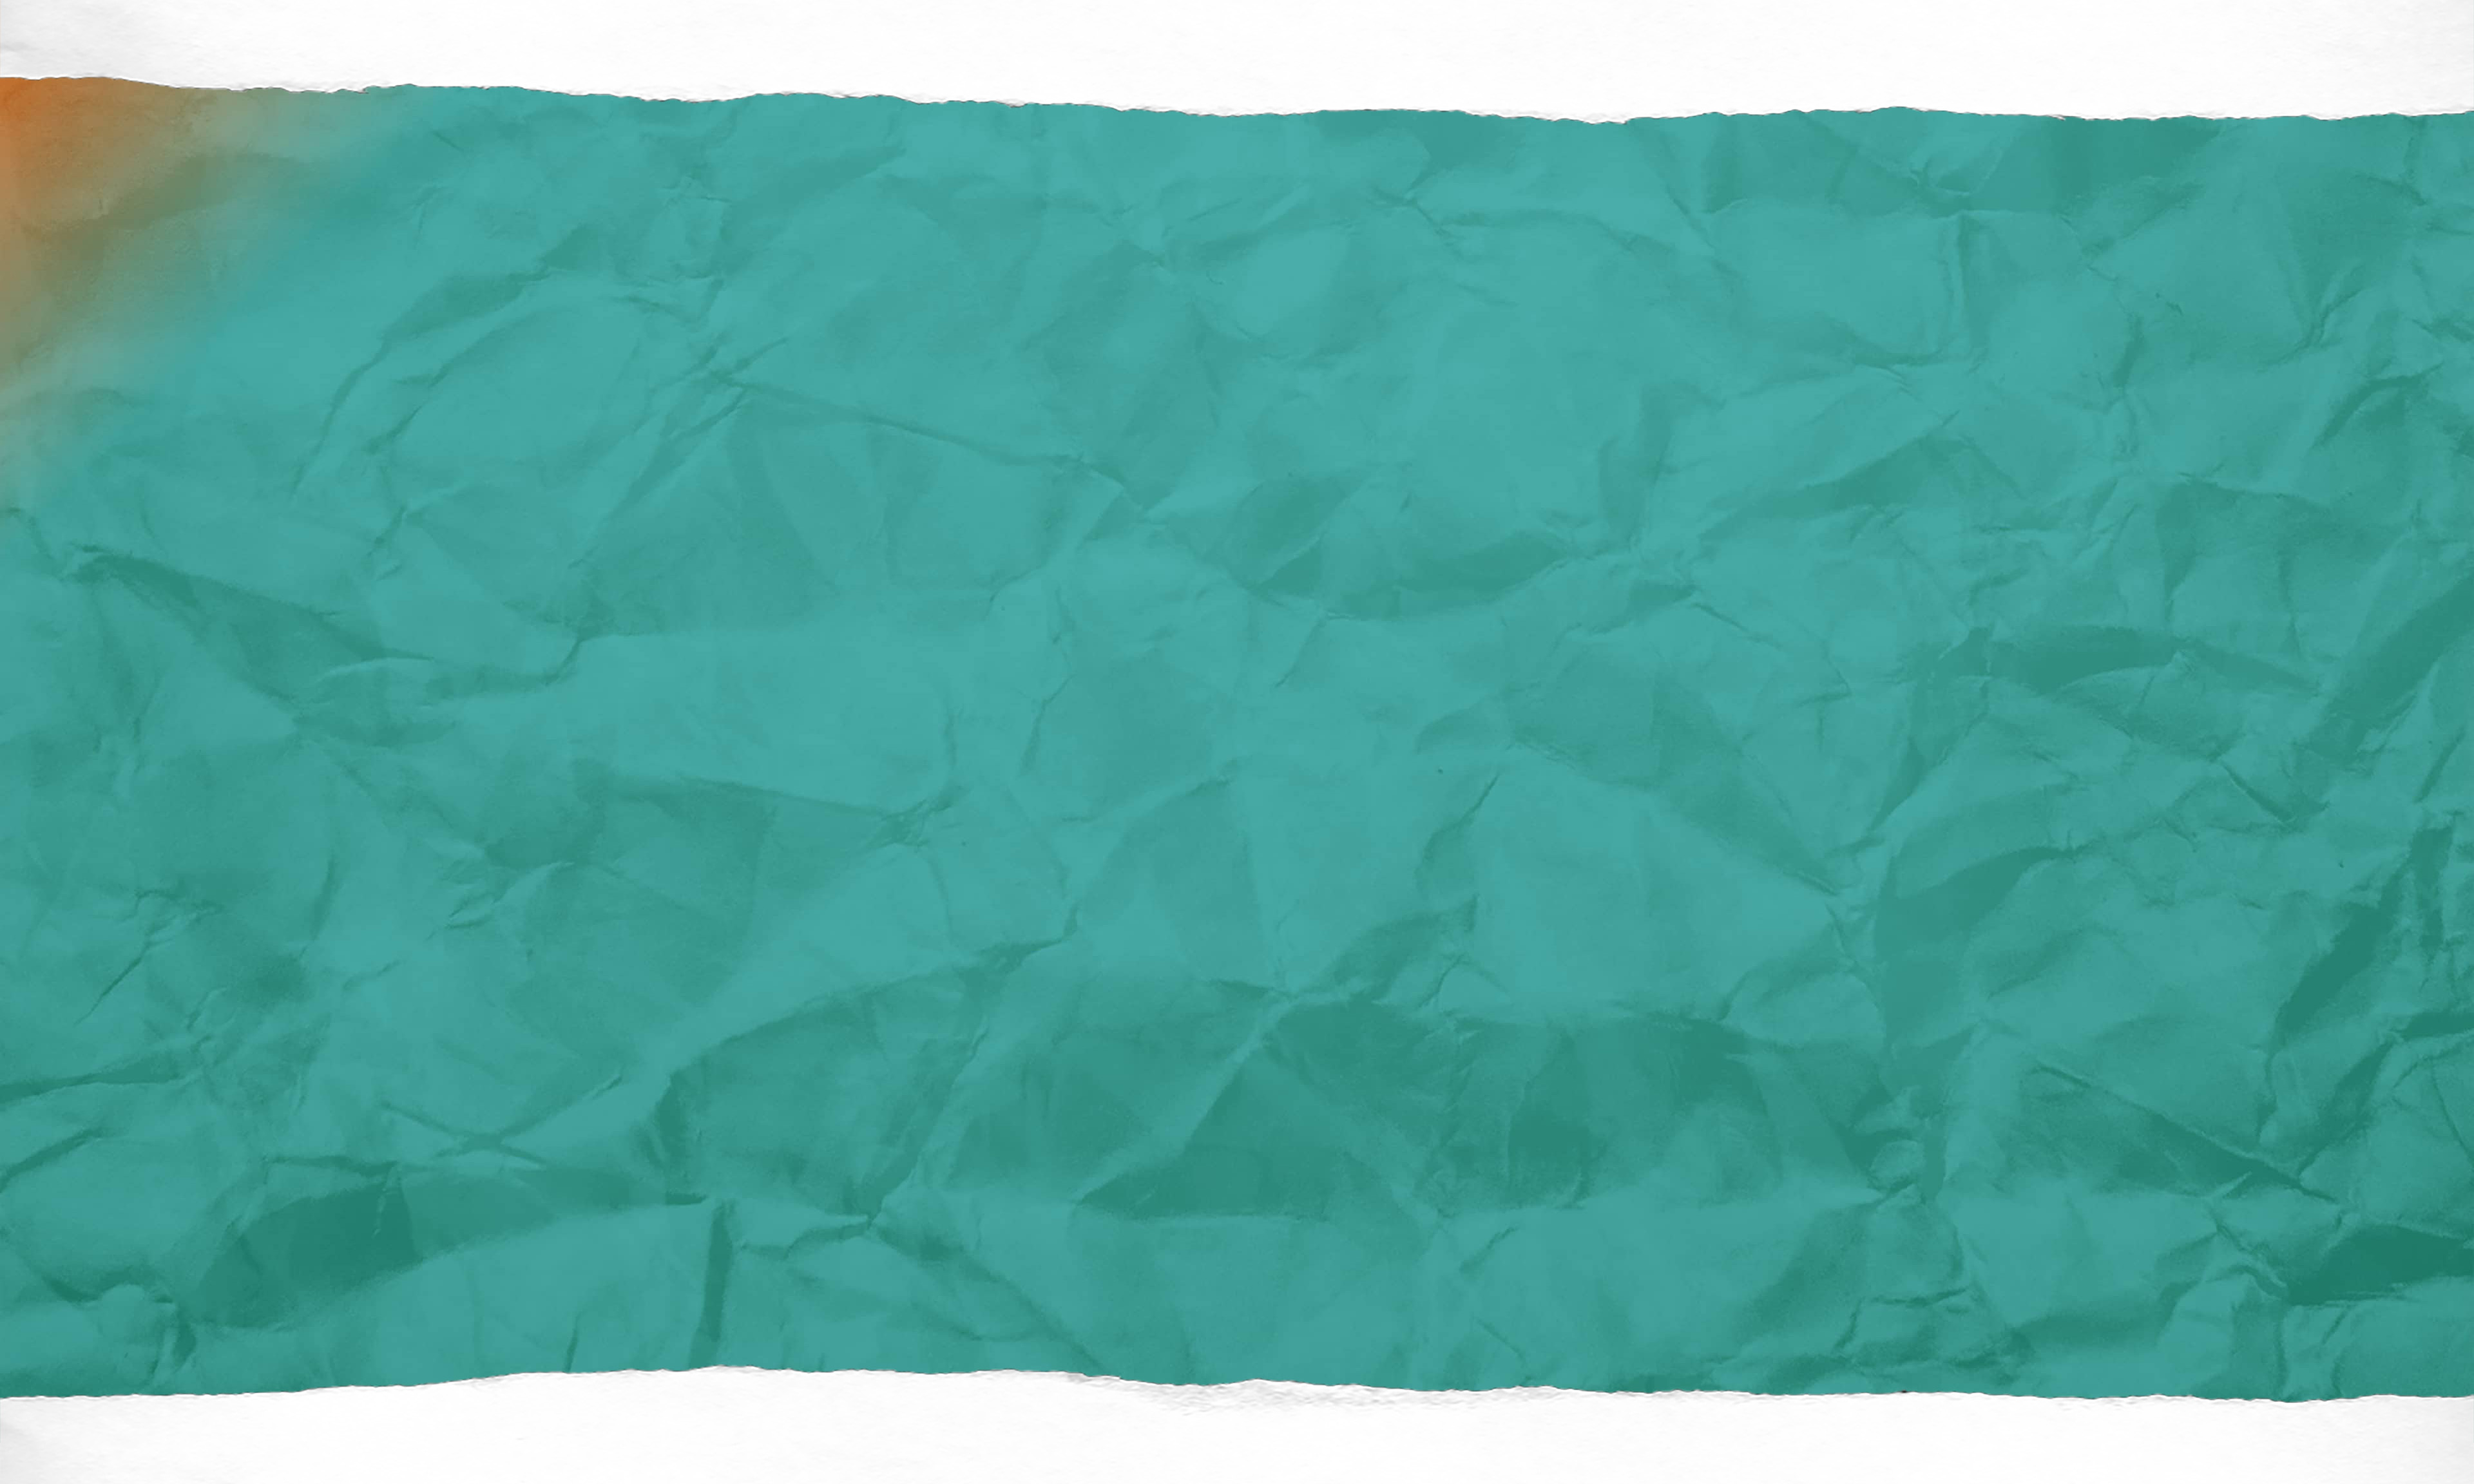
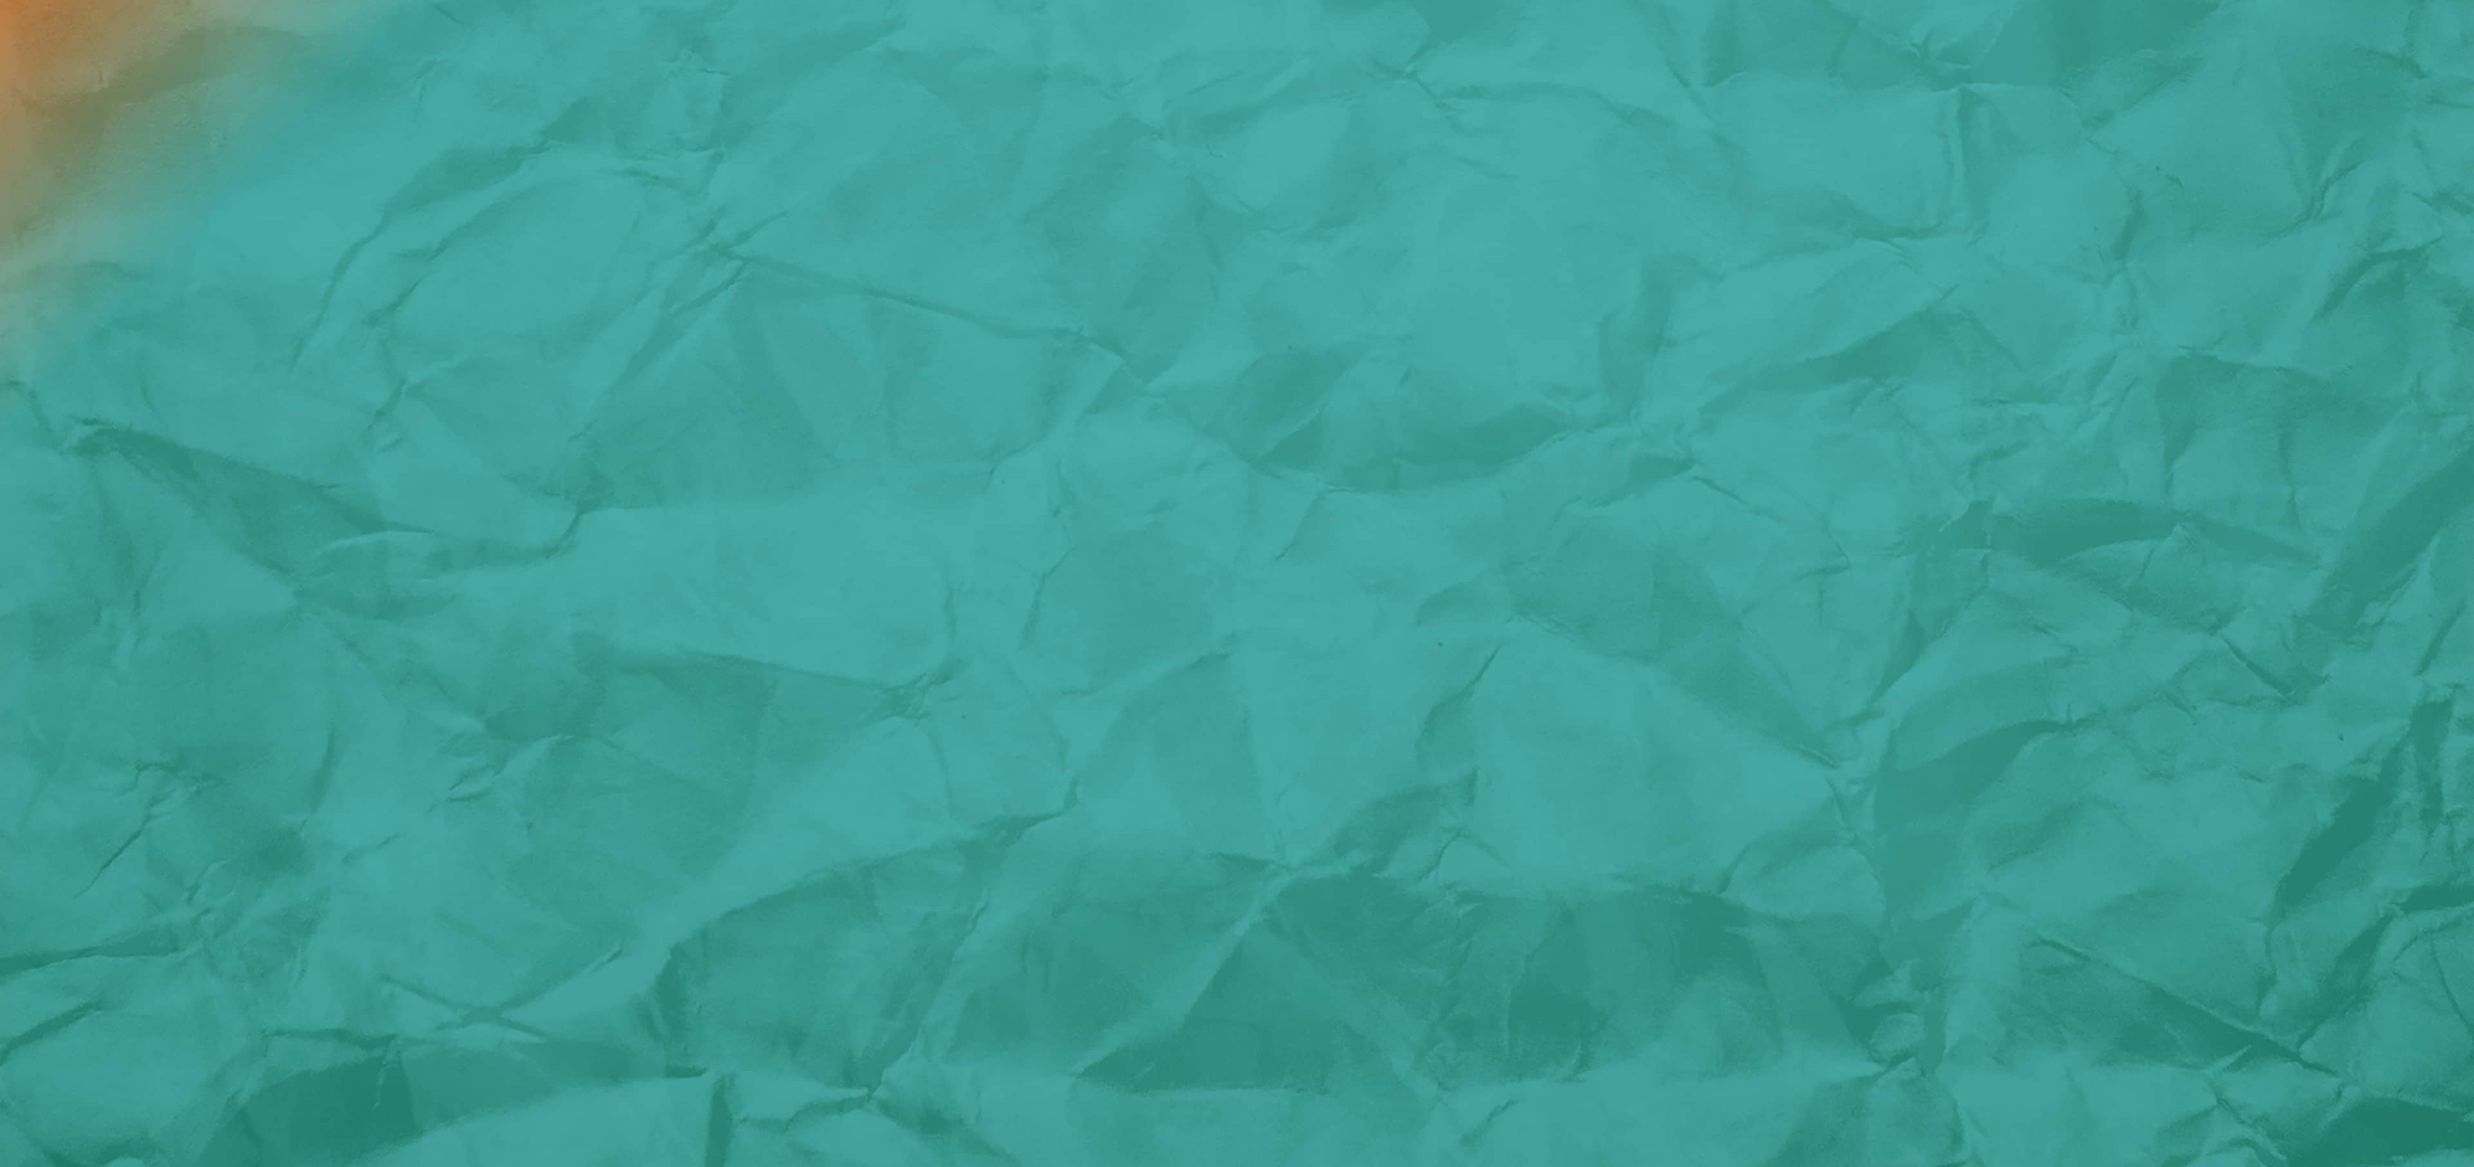
optimization: using webp formats

diff --git a/src/data/teamMemberItems.ts b/src/data/teamMemberItems.ts
@@ -1,14 +1,14 @@
 import type { TTeamMemberItem } from '../types/TTeamMemberItem';
 
-import EvaSevcikova from '../assets/img/portrety-manazeru/EvaSevcikova.jpg';
-import HanaHromkova from '../assets/img/portrety-manazeru/HanaHromkova.jpg';
-import JiriZapalac from '../assets/img/portrety-manazeru/JiriZapalac.jpg';
-import KaterinaKalinova from '../assets/img/portrety-manazeru/KaterinaKalinova.jpg';
-import KristynaLexova from '../assets/img/portrety-manazeru/KristynaLexova.jpg';
-import LucieVeskrnova from '../assets/img/portrety-manazeru/LucieVeskrnova.jpg';
-import TerezaHlouzkova from '../assets/img/portrety-manazeru/TerezaHlouzkova.jpg';
-import TereziaSrobova from '../assets/img/portrety-manazeru/TereziaSrobova.jpg';
-import VeronikaChadimova from '../assets/img/portrety-manazeru/VeronikaChadimova.jpg';
+import EvaSevcikova from '../assets/img/portrety-manazeru/EvaSevcikova.webp';
+import HanaHromkova from '../assets/img/portrety-manazeru/HanaHromkova.webp';
+import JiriZapalac from '../assets/img/portrety-manazeru/JiriZapalac.webp';
+import KaterinaKalinova from '../assets/img/portrety-manazeru/KaterinaKalinova.webp';
+import KristynaLexova from '../assets/img/portrety-manazeru/KristynaLexova.webp';
+import LucieVeskrnova from '../assets/img/portrety-manazeru/LucieVeskrnova.webp';
+import TerezaHlouzkova from '../assets/img/portrety-manazeru/TerezaHlouzkova.webp';
+import TereziaSrobova from '../assets/img/portrety-manazeru/TereziaSrobova.webp';
+import VeronikaChadimova from '../assets/img/portrety-manazeru/VeronikaChadimova.webp';
 
 export const teamMemberItems: TTeamMemberItem[] = [
   {

diff --git a/src/components/header/Marquee.tsx b/src/components/header/Marquee.tsx
@@ -2,7 +2,7 @@ import '../../styles/marquee.css';
 
 export const Marquee = () => {
   return (
-    <div className="relative overflow-hidden whitespace-nowrap text-3xl lg:text-[70px] w-full h-[100px] lg:h-[220px] flex items-center bg-[url('/pozadi/desktop/ripped_paper.png')] bg-cover bg-center bg-no-repeat">
+    <div className="relative overflow-hidden whitespace-nowrap text-3xl lg:text-[70px] w-full h-[100px] lg:h-[220px] xl:h-[240px] flex items-center bg-[url('/pozadi/desktop/ripped_paper.webp')] bg-cover bg-center bg-no-repeat">
       <div className="marquee">
         {[...Array(10)].map((_, index) => (
           <div key={index} className="flex">
